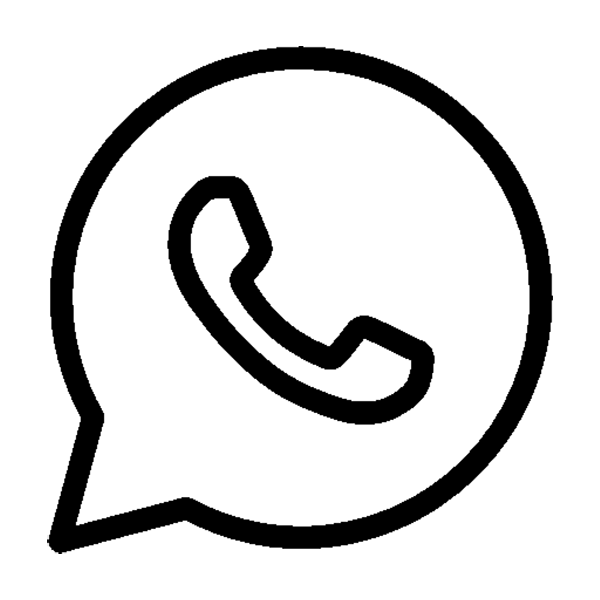
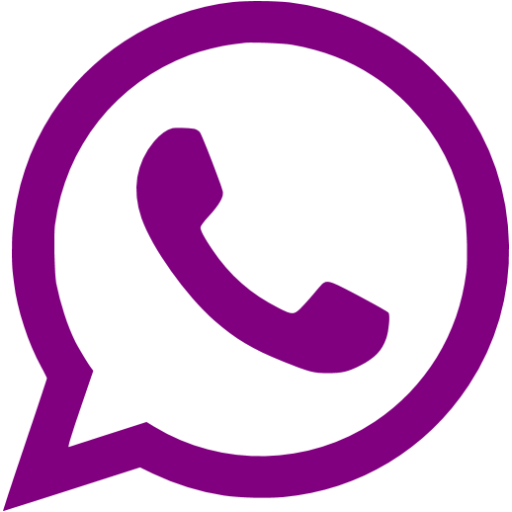
complete the Details

diff --git a/src/app/dashboard/orders/[orderId]/page.tsx b/src/app/dashboard/orders/[orderId]/page.tsx
@@ -2,16 +2,30 @@
 
 import React, { useState } from "react";
 import { OrderFilters } from "@/types/orders";
+
 import { defaultEmptyFilters } from "../../../../hooks/AllOrders/useFilterState";
 import { useFilteredOrders } from "../../../../hooks/AllOrders/useFilteredOrders";
 import { useSearchParams } from "next/navigation";
 import { AuthGuard } from "@/components/auth-guard";
 import { DashboardLayout } from "@/components/dashboard-layout";
-import { Truck, Package, CheckCircle } from "lucide-react";
+import {
+  Truck,
+  Boxes,
+  BadgePlus,
+  Repeat,
+  CircleDollarSign,
+  Clock3,
+  PhoneCall,
+  Ban,
+  CircleX,
+  CheckCircle2,
+  FileText,
+} from "lucide-react";
 import PageTab from "@/components/ui/PageTab";
 import { dummyCards } from "@/constants/orders-tabs";
 import FilterSection from "../allOrdersRefactor/FilterSection/index";
 import OrderDetailsInfo from "./OrderDetailsInfo";
+import Image from "next/image";
 
 export default function OrderDetails({ params }: { params: { code: string } }) {
   const [filters, setFilters] = useState<OrderFilters>(defaultEmptyFilters);
@@ -35,51 +49,72 @@ export default function OrderDetails({ params }: { params: { code: string } }) {
     <AuthGuard>
       <DashboardLayout>
         <div className="flex gap-4 md:flex-wrap overflow-x-auto hide">
-          {" "}
           <PageTab
             label="جميع الطلبات"
             count={dummyCards.length}
-            icon={<Package width={18} height={18} />}
+            icon={<Boxes width={18} height={18} />}
           />
           <PageTab
             label="طلبات جديده"
             count={3}
-            icon={<CheckCircle width={18} height={18} />}
+            icon={<BadgePlus width={18} height={18} />}
           />
           <PageTab
-            label="في الشحن"
+            label="تم المحاولة"
             count={200}
-            icon={<Truck width={18} height={18} />}
+            icon={<Repeat width={18} height={18} />}
           />
           <PageTab
-            label="في الشحن"
+            label="في انتظار الدفع"
             count={15000}
-            icon={<Truck width={18} height={18} />}
+            icon={<CircleDollarSign width={18} height={18} />}
           />
           <PageTab
-            label="في الشحن"
+            label="واتساب"
             count={30000}
-            icon={<Truck width={18} height={18} />}
+            icon={
+              <Image
+                src="/whatsapp.png"
+                alt="WhatsApp icon"
+                width={14}
+                height={14}
+              />
+            }
           />
           <PageTab
-            label="في الشحن"
+            label="تأجيلات"
             count={67}
-            icon={<Truck width={18} height={18} />}
+            icon={<Clock3 width={18} height={18} />}
           />
           <PageTab
-            label="في الشحن"
+            label="اعادة اتصال"
             count={1}
-            icon={<Truck width={18} height={18} />}
+            icon={<PhoneCall width={18} height={18} />}
           />
           <PageTab
-            label="في الشحن"
+            label="وقوف التشغيل"
             count={0}
-            icon={<Truck width={18} height={18} />}
+            icon={<Ban width={18} height={18} />}
+          />
+          <PageTab
+            label="تم الغاء"
+            count={2}
+            icon={<CircleX width={18} height={18} />}
+          />
+          <PageTab
+            label="تم التحضير"
+            count={2}
+            icon={<CheckCircle2 width={18} height={18} />}
           />
           <PageTab
             label="في الشحن"
             count={2}
             icon={<Truck width={18} height={18} />}
+          />
+          <PageTab
+            label="تقارير"
+            count={2}
+            icon={<FileText width={18} height={18} />}
           />
         </div>
         {/* Filter Section */}

diff --git a/src/components/OrderDetails/OrderDetailsInfo.tsx b/src/components/OrderDetails/OrderDetailsInfo.tsx
@@ -1,0 +1,111 @@
+import React from "react";
+import {
+  User,
+  Phone,
+  MapPinned,
+  Clock3,
+  Package,
+  Weight,
+  Truck,
+  CircleDollarSign,
+} from "lucide-react";
+
+function OrderDetailsInfoComponent() {
+  const tagStyle =
+    "flex gap-2 bg-white shadow-xs items-center py-2 px-2 rounded-[5px] font-semibold";
+
+  return (
+    <>
+      <div className="flex flex-col gap-4 font-medium p-4 bg-gray-50 mt-8 rounded-xl ">
+        <div className="">
+          <h2 className="text-[#5D24E1] font-semibold mb-3">بيانات العميل</h2>
+          <div className="grid grid-col-1 md:grid-cols-3 gap-6 ">
+            <p className={tagStyle}>
+              <User />
+              محمد يحيي عبداللطيف
+            </p>
+            <p className={tagStyle}>
+              <Phone width={18} />
+              01027464951
+            </p>
+            <p className={tagStyle}>
+              <Phone width={18} />
+              01027464951
+            </p>
+            <p className={tagStyle}>
+              <MapPinned width={18} />
+              القاهره
+            </p>
+            <p className={tagStyle}>
+              <MapPinned width={18} />
+              مدينة نصر
+            </p>
+            <p className={tagStyle}>
+              {" "}
+              <Clock3 width={18} />
+              10:30 مساءآ | 6:00 صباحآ
+            </p>
+          </div>
+        </div>
+        <div>
+          <h2 className="text-[#5D24E1] font-semibol mb-3">بيانات المنتج</h2>
+          <div className="grid grid-col-1 md:grid-cols-3 gap-6 ">
+            <p className={tagStyle}>
+              {" "}
+              <Package width={20} />
+              جلد
+            </p>
+            <p className={tagStyle}>
+              <Weight width={18} />
+              خفيف
+            </p>
+            <p className={tagStyle}>
+              <Package width={20} />
+              مستورد
+            </p>
+            <p className={tagStyle}>
+              <Truck width={20} />
+              اراميكس
+            </p>
+            <p className={tagStyle}>
+              <CircleDollarSign width={18} />
+              2000 جنيه
+            </p>
+          </div>
+        </div>
+        <div className="grid grid-cols-1 md:grid-cols-2 lg:grid-cols-3 md:grid-rows-1 gap-6">
+          <div className="max-w-[500px]">
+            <h3 className="mb-3">العنوان:</h3>
+            <p className={tagStyle}>
+              <span className="max-w-3/4">
+                ٣٣٧ ح -خدائق الاهرام - البوابه الرابعه - الدور الاول امام
+                الاسانسير خامس شارع خلف الكنيسه
+              </span>
+            </p>
+          </div>
+
+          <div className="max-w-[500px]">
+            <h3 className="mb-3">الملاحظات:</h3>
+
+            <p className={tagStyle}>
+              <span className="max-w-3/4">
+                انا مسافر يوم التلات ومحتاجه بسرعه من فضلكم وعايز مقاس 43 لون
+                زيتي
+              </span>
+            </p>
+          </div>
+        </div>
+      </div>
+      <div className="flex gap-2 justify-end mt-6 mb-3">
+        <button className="py-1 px-10 border-1 rounded-2xl border-[#5D24E1] text-[#5D24E1] text-sm font-bold">
+          متابعة
+        </button>
+        <button className="py-1 px-10 rounded-2xl bg-[#5D24E1] text-white text-sm font-bold">
+          تأكيد
+        </button>
+      </div>
+    </>
+  );
+}
+
+export default OrderDetailsInfoComponent;

diff --git a/src/app/dashboard/orders/allOrdersRefactor/page.tsx b/src/app/dashboard/orders/allOrdersRefactor/page.tsx
@@ -1,7 +1,20 @@
 "use client";
 
 import React, { useState } from "react";
-import { Truck, Package, CheckCircle } from "lucide-react";
+import {
+  Truck,
+  Boxes,
+  BadgePlus,
+  Repeat,
+  CircleDollarSign,
+  Clock3,
+  PhoneCall,
+  Ban,
+  CircleX,
+  CheckCircle2,
+  FileText,
+} from "lucide-react";
+import Image from "next/image";
 import { DashboardLayout } from "@/components/dashboard-layout";
 import FilterSection from "./FilterSection/index";
 import PageTab from "@/components/ui/PageTab";
@@ -43,47 +56,69 @@ export default function AllOrdersRefactor() {
         <PageTab
           label="جميع الطلبات"
           count={dummyCards.length}
-          icon={<Package width={18} height={18} />}
+          icon={<Boxes width={18} height={18} />}
         />
         <PageTab
           label="طلبات جديده"
           count={3}
-          icon={<CheckCircle width={18} height={18} />}
+          icon={<BadgePlus width={18} height={18} />}
         />
         <PageTab
-          label="في الشحن"
+          label="تم المحاولة"
           count={200}
-          icon={<Truck width={18} height={18} />}
+          icon={<Repeat width={18} height={18} />}
         />
         <PageTab
-          label="في الشحن"
+          label="في انتظار الدفع"
           count={15000}
-          icon={<Truck width={18} height={18} />}
+          icon={<CircleDollarSign width={18} height={18} />}
         />
         <PageTab
-          label="في الشحن"
+          label="واتساب"
           count={30000}
-          icon={<Truck width={18} height={18} />}
+          icon={
+            <Image
+              src="/whatsapp.png"
+              alt="WhatsApp icon"
+              width={14}
+              height={14}
+            />
+          }
         />
         <PageTab
-          label="في الشحن"
+          label="تأجيلات"
           count={67}
-          icon={<Truck width={18} height={18} />}
+          icon={<Clock3 width={18} height={18} />}
         />
         <PageTab
-          label="في الشحن"
+          label="اعادة اتصال"
           count={1}
-          icon={<Truck width={18} height={18} />}
+          icon={<PhoneCall width={18} height={18} />}
         />
         <PageTab
-          label="في الشحن"
+          label="وقوف التشغيل"
           count={0}
-          icon={<Truck width={18} height={18} />}
+          icon={<Ban width={18} height={18} />}
+        />
+        <PageTab
+          label="تم الغاء"
+          count={2}
+          icon={<CircleX width={18} height={18} />}
+        />
+        <PageTab
+          label="تم التحضير"
+          count={2}
+          icon={<CheckCircle2 width={18} height={18} />}
         />
         <PageTab
           label="في الشحن"
           count={2}
           icon={<Truck width={18} height={18} />}
+        />
+        <PageTab
+          label="تقارير"
+          count={2}
+          icon={<FileText width={18} height={18} />}
         />
       </div>
 

diff --git a/src/app/dashboard/orders/[orderId]/OrderDetailsInfo.tsx b/src/app/dashboard/orders/[orderId]/OrderDetailsInfo.tsx
@@ -3,6 +3,7 @@ import React from "react";
 import OrderDetailsCardId from "@/components/OrderDetails/OrderDetailsCardId";
 import OrderDetailsInfoStatus from "@/components/OrderDetails/OrderDetailsInfoStatus";
 import OrderDetailsProductCard from "@/components/OrderDetails/OrderDetailsProductCard";
+import OrderDetailsInfoComponent from "@/components/OrderDetails/OrderDetailsInfo";
 
 function OrderDetailsInfo() {
   return (
@@ -10,6 +11,7 @@ function OrderDetailsInfo() {
       <OrderDetailsCardId />
       <OrderDetailsInfoStatus />
       <OrderDetailsProductCard />
+      <OrderDetailsInfoComponent />
     </section>
   );
 }
